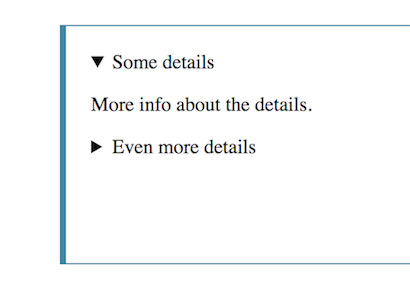
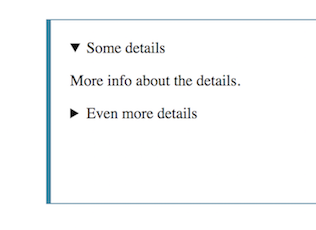
FINAL changes

diff --git a/index.html b/index.html
@@ -2,6 +2,7 @@
 <head>
   <title>bensonhaley-seniorcapstone</title>
   <link rel="stylesheet" type="text/css" href="styles.css">
+<link href="https://fonts.googleapis.com/css?family=Libre+Baskerville|PT+Sans" rel="stylesheet">
 </head>
 
 
@@ -13,60 +14,126 @@
 <div id="table_of_contents">
 <details><summary>table of contents</summary>
 <ul>
-  <li><strong><a href="#intro">HTML's <i>details</i> element</a></strong></li>
-  <li><strong><a href="#summary">accompanying details: the summary element</a></strong></li>
-  <li><strong><a href="#java">details and Javascript</a></strong></li>
+  <li><strong><a href="#haas">Christina Haas’ “on the relationship between old and new technologies”</a></strong></li>
+  <li><strong><a href="#intro">HTML's <i>details</i> element (and <i>summary</i> element)</a></strong></li>
+  <li><strong><a href="#arrival"><i>details</i> arrival: HTML5</a></strong></li>
+  <li><strong><a href="#print"><i>details</i> and print: parallels and differences</a></strong></li>
+  <li><strong><a href="#java"><i>details</i>and Javascript</a></strong></li>
   <li><strong><a href="#browser">browser support</a></strong></li>
-  <li><strong><a href="#print">details and print: parallels and differences</a></strong></li>
 </ul>
 </details>
 </div>
 <h2>defining this project</h2>
-<img src="writing_tools.jpg" alt="example" align=right>
-<p>In the digital age, many of us move through online spaces and print spaces differently. We’ve learned them in different contexts, and their interfaces still just feel fundamentally different. This is not to say we might not use an online article and a print article for the same purpose, just that we simply can’t seem to get over that physical, psychological difference we “feel.”</p>
+<img style="float: right; padding-left: 50px;" src="writing_tools.jpg" alt="example">
+<p>In the digital age, many of us move through online spaces and print spaces differently. We’ve learned them in different contexts, and perhaps use them for different reasons. On top of this, the physical difference between these spaces is hard to get over.</p>
 
-<p>Consequently, we often forget to look for the continuity between these two spaces. The web space and mobile space are here, and will likely be our dominant “spaces” from here on out. And the technology that has allowed us to reach this point has been so revolutionary, and so new—it’s difficult to see print and web as the same.</p>
+<p>Consequently, we may forget to look for the continuity between these two spaces. Print has had a long history, and web technology has been so revolutionary, and new—it’s difficult to see print and web as the same.</p>
 
-<p>The purpose of this project is to set a reminder. Computer technology and the web may have been created by technical geniuses, but someone eventually realized that they needed to be designed for humans, humans with a history of interactions with tools and with writing. It’s unfair to leave the print tradition out of the conversation when we’re looking at humans’ relationship with computer and web technology. Expanded interactivity and multimodality will continue to claim more of digital space, but the web has both grown out of and continues to be shaped by print and its history. To competently navigate digital spaces, we should be aware of how they both reflect and extend the printed space.
+<p>The purpose of this project is to remind that it’s impossible to look at print and web spaces as truly separate. The conversation about humans’ relationship with computer and web technology must include discussion of print. The web has both grown out of and continues to be shaped by print and its history. To competently navigate digital spaces, we should be aware of how they both reflect and extend the printed space.</p>
+
+<p>In order to concretize this idea, this project will look at the 'history,' or development, of an individual HTML element in the context of how it relates to the print tradition.</p>
+
+<h2><a name="haas">Christina Haas’ “on the relationship between old and new technologies”</a></h2>
+
+<p>This project is influenced by Christina Haas’ article “On the Relationship Between Old and New Technologies.” Haas’ article is older (published in 1999), but its arguments and ideas are still relevant today, and especially relevant to this project.</p>
+<p>In “On the Relationship Between Old and New Technologies,” Haas (1999) looks to the complex relationship between ‘old’ and ‘new’ technologies—focusing not on how they differ but on how they overlap and influence on another. Haas (1999) wishes to combat the notion of “simple replacement” and “straightforward progress” when it comes to technological development (p. 210). When we accept new iterations of a technological tool as always better than the old, we may be ignoring how people actually interact with and think about these tools in the real world (Haas, 1999). In the article, Haas also focuses on how our view of old and new technologies affects how we understand technological literacy. Haas argues that when we accept the notion of “simple replacement” and “straightforward progress,” we may misunderstand what ‘literacy’ really means at that time and in particular contexts. Ultimately, Haas (1999) wants to highlight that technology use is always tied to wider cultural and historical practices (p. 212). In order to effectively work with tech in our lives and work, we must take a critical look at the history and context that surrounds a particular tool or technology.
 </p>
+
 
 <h2><a name="intro">HTML’s <i>details</i> element (and <i>summary</i> element)</a></h2>
-<p>The focus of this project is a small but significant snippet of HTML markup, which interacts with software then hardware to build a feature of the digital space discussed above. This particular HTML element represents a visual output that is grounded in print but also extends into new territory.</p>
+<div id="main_section">
 
-<p>The W3C’s HTML 5.3 documentation defines the details element as “a disclosure widget from which the user can obtain additional information or controls.”</p>
+ <p>The focus of this project is a small but significant piece of HTML5 markup. This particular element creates an output in ‘digital space’ that (this project argues) is grounded in print but also extends into new territory.</p>
 
-<p>The details element is categorize as an interactive element, and so falls under the HTML category of interactive content, which is “content that is specifically intended for user interaction” (3.2.4.2.7. W3C Specs). The details element allows a viewer to click on a piece of text in order to “open” or reveal an additional section of text.
+ <p>The W3C’s HTML 5.3 documentation defines the details element as “a disclosure widget from which the user can obtain additional information or controls.”</p>
+
+ <p>The details element is categorized as an interactive element, falling under the HTML category of ‘interactive content.’ HTML interactive content is “content that is specifically intended for user interaction” (3.2.4.2.7. W3C Specs). The details element allows a viewer to click on a piece of text in order to “open” or reveal an additional section of text:</p>
+
+</div>
+<div id="example">
+<h3>EXAMPLE:</h3><br>(click "summary")
+<br><br>
+<details><summary><i>Summary</i></summary>
+<br><i>Details</i> Lorem ipsum dolor sit amet, consectetur adipiscing elit, sed do eiusmod tempor incididunt ut labore et dolore magna aliqua. Ut enim ad minim veniam, quis nostrud exercitation ullamco laboris nisi ut aliquip ex ea commodo consequat. Duis aute irure dolor in reprehenderit in voluptate velit esse cillum dolore eu fugiat nulla pariatur.
+</details>
+</div>
+
+
+<h2><a name="arrival"><i>details</i> arrival: HTML5</a></h2>
+<img style="float: right; padding-left: 50px; padding-bottom: 50px;" src="html5.jpg" alt="html5 illustration">
+<p>The summary and details elements are among the list of new ‘semantic elements’ introduced in HTML5. “A semantic element clearly describes its meaning to both the browser and the developer” (HTML Semantic Elements, W3C). Summary and details came in alongside a number of other major semantic elements that were introduced with the current HTML5; header, footer, nav, section, and article.</p>
+
+<p>The WHAT WG (Web Hypertext Application Technology Working Group) and W3C (World Wide Web Consortium), current developers of HTML, added these semantic elements in order to 'streamline' web developers’ current page-structuring process. Previously, with HTML4, developers had been “defining their own id/class names to style elements: header, navigation, main, article etc,” often with div tags (HTML Semantic Elements, Why Semantic Elements, W3C). The new HTML5 semantic elements were implemented in order to make HTML page structure definitions more 'understandable' for search engines and other software. This move was made towards more semantic representation in order to prepare for the future; where data will be read, processed, and organized more and more by machines and less by humans. The current developers of HTML are striving for a web where data is more easily “shared and reused across applications, enterprises, and communities" (HTML Semantic Elements, Why Semantic Elements, W3C).
 </p>
-<p>
-<table width="400">
-  <td><img src="details 1.png" alt="example"></td>
-  <td><img src="details 2.png" alt="example"></td>
-  <td><img src="details 3.png" alt="example"></td>
-</table>
-</p>
-
-<h2><i>details</i> arrival: HTML5</h2>
-<p>Lorem ipsum dolor sit amet, consectetur adipiscing elit. Sed pulvinar mi magna. Aliquam sodales felis odio, eget ultrices lorem rutrum vel. Proin eget lorem nec tellus auctor maximus ut non nunc. Vestibulum pharetra nec tortor tempus sodales. Cras nec nibh eros. Fusce quis ex at felis venenatis imperdiet ut non enim. Vestibulum quis elit eget dolor maximus blandit. Etiam ac ullamcorper est. Ut tempus nibh sit amet augue suscipit suscipit. Duis at venenatis purus, ac egestas tortor. Quisque pretium orci sit amet magna iaculis, vel varius ante tincidunt. Maecenas at velit nec sapien facilisis lacinia. Nulla non molestie est. Vestibulum ut mi lacus. Vestibulum at nisl feugiat, efficitur ex ac, ultrices metus.</p>
 
 <h2><a name="print"><i>details</i> and print: parallels and differences</a></h2>
-<p>It’s important to first look to the ways in which HTML’s details element can be connected to the printed page and the print tradition. The printed word is populated with many text “structures” that match that of the summary/details element. These structures include a sequence and visual hierarchy that interact to create the semantic meaning of the structure: the first section of text, shorter in length and perhaps bolded, features the “broader” component, while the following section, situated below and often longer in length, set apart by indentation or a smaller point size, offers elaboration on the component it follows.</p>
+<img style="float: right; padding-left: 50px; padding-bottom: 50px;" src="hippocratis.jpg" alt="printed page">
+<p>Because this project focuses on the continuity between print and the web, we will first look at the ways in which the details element can be connected to print.</p>
 
-<p>When we see this structure, we intuitively recognize the relationship between these two components. It’s entirely ubiquitous within the realm of the printed page.</p>
+<blockquote>
+HTML5 Specifications’ definition of the details and summary elements:<br>
+<i>Summary</i><br>
+“The summary element represents a summary, caption, or legend for the contents of the details element”<br>
+<i>Details</i><br>
+“...represents the additional information or controls”
+</blockquote>
+<br>
+<p>The print tradition is filled with text ‘structures’ that take the same shape that summary/details elements make together. Wider examples include the chapter title and chapter content, or the topic sentence at the beginning of a paragraph. The HTML5 Specifications specifically reference the “summary, caption, and legend” as comparisons for the HTML summary element. These are textual components that have a long history in the world of print:</p>
+<br>
+<blockquote>
+Summary: “A brief statement or account of the main points of something” (Oxford Dictionary)<br>
+Legend: “The wording on a map or diagram explaining the symbols used” (Oxford Dictionary)<br>
+Caption: “A title or brief explanation accompanying an illustration, cartoon, or poster” (Oxford Dictionary)
+</blockquote>
+<br>
+<img style="float: left; padding-right: 50px; padding-bottom: 50px;" src="photo.jpg" alt="printed page">
+<img style="float: right; padding-left: 50px; padding-bottom: 50px;" src="legend.jpg" alt="printed page">
+<br>
+<p>This two-part structure is ubiquitous within the realm of the printed page. When we see it, we can quickly recognize the relationship between these two components. The first part of the structure gives us the ‘key message,’ and the second part gives us the content, most often an expansion of the ideas presented in the ‘title’ section. Both feed our understanding of the other.</p>
+<br>
+<div id="extra">
+  In a recent study, Ahmadi (2011) looks at the importance and of the title. “A title prepares the readers for comprehending a text,” and “gives macro-structural information and activates cognitive schemata which facilitates the integration of textual information” (Ahmadi, 2011, p. 164). The study found that the title is so powerful that it can lead readers to attach meaning to even a ‘nonsense’ paragraph; just the placement of a title above a set of otherwise unrelated sentences lead readers to feel they had gleaned a main idea from the paragraph (Ahmadi, 2011, p. 169).
+</div>
+<br>
+<p>The details and summary elements have taken this structure and adapted it for digital space. The key difference that exists between the summary/details ‘widget’ and its parallels in print, the thing that brings this structure into digital territory, is the interactivity. In the past, it’s certain that map makers or cartoonists or technical writers would have rejoiced at the opportunity to have an expandable section that they could include under their captions or symbols or footnotes. A space to put ‘additional information,’ that won’t take up precious space within one’s document as a whole… What could be better?</p>
 
-There are ways that the details element can be seen as more tailored to a web environment than other HTML elements&mdash;as diverging from the print tradition more significantly. The details tag creates a text element, but the interactivity that results is something that we do no necessarily see within the print tradition.
-</p>
+ <p>The existence of the details/summary widget, and the wider function of having an expandable/collapsable section of content, can be seen as a direct consequence of what scholars and cultural critics have named 'the attention economy.' With more content online than ever before, crucial and important information competes with what some would define as secondary information—ads, links, sidebars, and more. Space on the web is intimately linked to attention, and attention has become one of the most sought after 'commodities' in the digital age. The details/summary widget creates an easy way for web developers to reserve space for the information they deem most crucial, while still offering inclusion to that secondary content.</p>
 
-<h2><a name="java"><i>details</i> tag and Javascript</a></h2>
-<p>The details and summary elements are especially important to consider when discussing HTML’s development because they create a function that used to require a Javascript to be accomplished. </p>
 
+<h2><a name="java"><i>details</i> and Javascript</a></h2>
+<img style="float: left; padding-right: 50px; padding-bottom: 50px;" src="boxinggloves.jpg" alt="boxing gloves photo">
+<p>As HTML ‘interactive elements,’ the details and summary elements are a notable development in HTML-standards history because they create a function that used to require Javascript (JS) to be implemented. The details and summary elements together create an ‘expand/collapse’ widget natively, making it unnecessary to pull a JS ‘script’ into the HTML code. In the HTML 5.3 Specifications put out by the W3C’s Web Platform Working Group (WebPlat WG), current developers of HTML say that they make the decision to add new elements based on “research into prevailing authoring practices” and in order “to help Web application authors” (HTML 5.3, Editor’s Draft). The idea behind writing more interactivity directly into HTML standards is that it will make it easier on web developers; allowing them to invoke a simple HTML tag, which works natively in the browser, rather than a whole JS script.</p>
+<br>
+<p>But, there has been argument over whether the details and summary elements, and other elements that create functions traditionally made with Javascript, are a necessary or helpful addition to the HTML standards. Within the HTML-standards development community at the W3C, there have been petitions to remove the details and summary elements from the HTML5 Specifications, and there have been subsequent counter-petitions to keep them.</p>
+
+<p>Those behind the petition to remove the details and summary elements from the HTML5 Specifications argue that they are unnecessary because “implementing collapsible behavior is comparatively easy, and can be done with script libraries” (Working Group Decision on ISSUE-93 details). This group has also made the argument that despite being brought in alongside other major semantic elements, the details and summary arguments might not be as ‘semantic’ in nature as has been claimed (Working Group Decision on ISSUE-93 details). This argument rests on the idea that collapsibility of this widget is distinctly presentational, which is the opposite of what the web standards community is trying to do with semantics (Working Group Decision on ISSUE-93 details). Some even argue that the "behavioral" nature of the details/summary widget is a “violation” of HTML’s goal as a markup language (Working Group Decision on ISSUE-93 details).</p>
+
+<p>Counter-arguments were raised quickly in response to this call to eliminate the details and summary elements. Defenders of the widget argued that this function is so common on the web that it is useful for developers to have the option to implement in natively in HTML (Working Group Decision on ISSUE-93 details). Others cited that the opportunity to reduce code size and avoid the myriad of “media-dependent,” inconsistent Javascript implementations of the same function as reason to keep the details/summary elements in the HTML5 Specifications (Working Group Decision on ISSUE-93 details). Finally, proponents of the elements made a significant claim when they presented the argument that these elements do in fact carry semantic value and so are valuable in terms of accessibility (Working Group Decision on ISSUE-93 details). (It was even noted that the HTML Working Group’s Accessibility Task Force argued for retaining the details/summary elements.) This argument rested on the idea that the details and summary elements increases accessibility and are easier to implement than scripted versions—when developing accessible content is easier to do, it’s more attractive to web and content developers.</p>
+<br>
+<p>As of 2010, the dispute over whether or not to keep the details and summary elements in W3C’s HTML5 Specifications was resolved, with Working Group members ultimately agreeing that the arguments against the elements were not as strong as the arguments for them (Working Group Decision on ISSUE-93 details). Because complaints were brought up so quickly after their initial implementation, it’s not unlikely that the details and summary elements will face backlash again in the future. But, for now, the detail/summary widget remains a part of the HTML5 library, available for use by developers.</p>
 
 <h2><a name="browser">browser support</a></h2>
 
-<p>Lorem ipsum dolor sit amet, consectetur adipiscing elit. Sed pulvinar mi magna. Aliquam sodales felis odio, eget ultrices lorem rutrum vel. Proin eget lorem nec tellus auctor maximus ut non nunc. Vestibulum pharetra nec tortor tempus sodales. Cras nec nibh eros. Fusce quis ex at felis venenatis imperdiet ut non enim. Vestibulum quis elit eget dolor maximus blandit. Etiam ac ullamcorper est. Ut tempus nibh sit amet augue suscipit suscipit. Duis at venenatis purus, ac egestas tortor. Quisque pretium orci sit amet magna iaculis, vel varius ante tincidunt. Maecenas at velit nec sapien facilisis lacinia. Nulla non molestie est. Vestibulum ut mi lacus. Vestibulum at nisl feugiat, efficitur ex ac, ultrices metus.</p>
+<p>When they were first included within HTML5 specifications, the details and summary elements struggled in terms of browser support. This prevented them from really ‘taking off,’ as developers were afraid to use them for fear of the ‘collapse/expand’ behavior not being supported in many user’s browsers. In contrast, a Javascript implementation offered a reliable way to implement this same function, with just slightly more work. As we’ve seen, this has continued to color the life of these elements.</p>
 
+<p>As of 2017, browser support for the details element has improved. Currently, the only browser that doesn’t offer support is Internet Explorer. As we proceed, we will hopefully see increased support and ease-of-use for these contentious but decidedly useful and interesting HTML elements.</p>
+<br><br><br>
+
+<div id="references">
+<h3>References</h3>
+
+Ahmadi, A. R. (2011). Comprehension of a non-text: The effect of the title and ambiguity tolerance. Journal of Pan-Pacific Association of Applied Linguistics, 15(1), 163-176.
+Haas, C. (1999). On the Relationship Between Old and New Technologies. Computers and Composition 16, 209–228.<br>
+Way, J. (2011, December 6). A Brief History of HTML5. Retrieved November 16, 2017, from https://code.tutsplus.com/articles/a-brief-history-of-html5--net-23064 <br>
+W3C. (2017, December 1). HTML 5.3 Editor’s Draft. Retrieved November 16, 2017, from https://w3c.github.io/html/ <br>
+W3C Public Mailing List Archives. (2010, June 30). Working Group Decision on ISSUE-93 details. Retrieved November 20, 2017, from http://lists.w3.org/Archives/Public/public-html/2010Jun/att-0659/issue-93-decision.html<br>
+Summary [Def. 1]. (n.d.) In Oxford Dictionary Online, Retrieved November 20, 2017, from https://en.oxforddictionaries.com/definition/summary <bR>
+Legend [Def. 3.2]. (n.d.) In Oxford Dictionary Online, Retrieved November 20, 2017, from https://en.oxforddictionaries.com/definition/legend <br>
+Caption [Def. 1]. (n.d.) In Oxford Dictionary Online, Retrieved November 20, 2017, from https://en.oxforddictionaries.com/definition/caption<br>
+</div>
 <br>
 <footer>
-  <p>&copy; 2017 <br> Haley Benson <br> WRIT 4662 Senior Capstone</p>
+  <p>&copy; 2017 | Haley Benson | WRIT 4662 Senior Capstone</p>
 </footer>
 </div>
 </body>

diff --git a/styles.css b/styles.css
@@ -1,20 +1,98 @@
 body {
-  font-family: "Lucida Sans Unicode", "Lucida Grande", sans-serif;
+  font-family: 'PT Sans', sans-serif;
+  background-color: #ECECEA;
 }
 
 h1 {
+  font-family: 'Libre Baskerville', serif;
   text-align: center;
+  padding: 40px;
+  font-size: 24px;
 }
 h2 {
+  font-family: 'Libre Baskerville', serif;
+  font-size: 20px;
   text-align: center;
   color: #404040;
+  padding: 30px;
+}
+
+p {
+  line-height: 24px;
+  font-kerning: normal;
+  font-family: 'PT Sans', sans-serif;
+  font-size: 16px;
+  padding-left: 120px;
+  padding-right: 120px;
 }
 
 #table_of_contents {
-  background-color: #33C1FF;
+  background-color: #E9E581;
   padding: 2%;
+  font-family: 'Libre Baskerville', serif;
+}
+
+#table_of_contents a {
+  text-decoration: none;
+  color: black;
+}
+
+#table_of_contents a:hover {
+  color: #DE1B1B;
 }
 
 #container {
   margin: 40px;
+}
+
+#main_section {
+  background-color: #808080;
+  color: white;
+  margin: 30px;
+  padding: 50px;
+}
+
+#example {
+  text-align: center;
+  font-size: 18px;
+  background-color: #DE1B1B;
+  color: white;
+  padding: 18px;
+  margin-top: 60px;
+  margin-bottom: 60px;
+  margin-left: 200px;
+  margin-right: 200px;
+}
+
+#extra {
+  font-size: 14px;
+  text-align: center;
+  background-color: #E9E581;
+  padding: 15px;
+  margin-top: 35px;
+  margin-bottom: 35px;
+
+}
+
+#references {
+  line-height: 24px;
+  font-size: 14px;
+  text-align: left;
+  background-color: #808080;
+  padding: 25px;
+  margin-top: 35px;
+  margin-bottom: 35px;
+
+}
+
+blockquote {
+  line-height: 30px;
+  background-color: #808080;
+  color: white;
+  text-align: center;
+  padding: 20px;
+  margin-top: 35px;
+  margin-bottom: 35px;
+  margin-left: 160px;
+  margin-right: 160px;
 }
